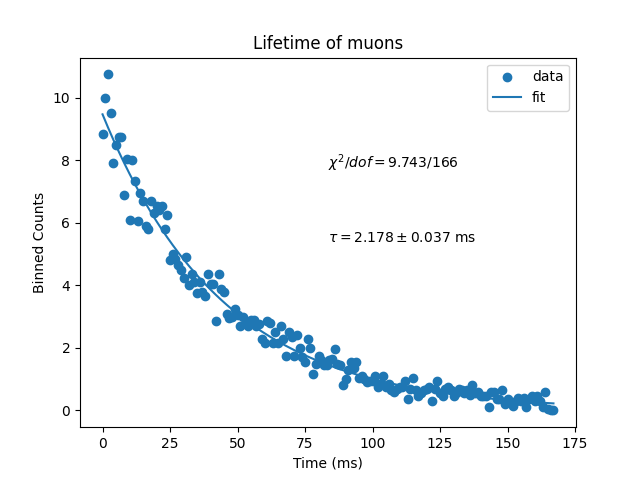
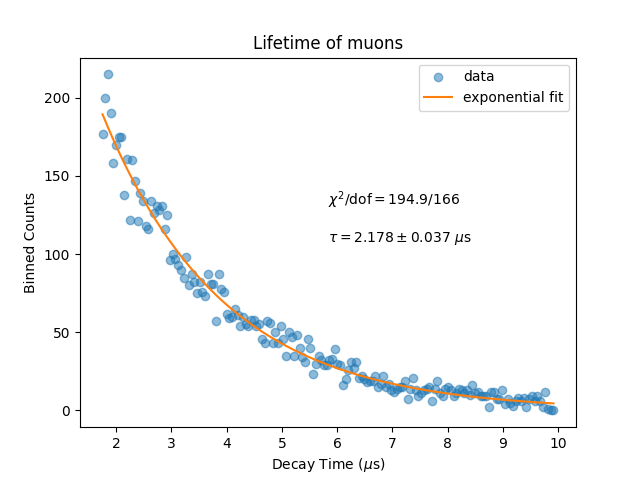
fix lifetime analysis

diff --git a/Exp1-CosmicRayMuons/lifetime_analysis.py b/Exp1-CosmicRayMuons/lifetime_analysis.py
@@ -11,13 +11,13 @@ print("original num bins:", data.shape)
 
 # assert False
 
-data = remove_zeros_on_margin(data)
+data, num_leading_zeros = remove_zeros_on_margin(data)
 print("num bins after removing dead zone with zeros:", data.shape)
 
 # bin the data
 BIN_SIZE = 20
-TIME_PER_BIN = BIN_SIZE * 10 / 4096 # in ms
-data = np.mean(data[:len(data)//BIN_SIZE * BIN_SIZE].reshape(-1, BIN_SIZE), axis=1)
+TIME_PER_BIN = BIN_SIZE * 10 / 4096 # in mus
+data = 20*np.mean(data[:len(data)//BIN_SIZE * BIN_SIZE].reshape(-1, BIN_SIZE), axis=1)
 print("num bins after binning:", data.shape)
 
 
@@ -32,7 +32,7 @@ def pure_exponential_decay(x, A, tau):
     return A * np.exp(-x / tau)
 
 def fit_exponential_decay(x, y):
-    popt, pcov = curve_fit(exponential_decay, x, y, p0=[max(y), 100, min(y)])
+    popt, pcov = curve_fit(exponential_decay, x, y, p0=[max(y), 100, 0])
     return popt, pcov
 
 def fit_pure_exponential_decay(x, y):
@@ -48,6 +48,7 @@ if USE_BACKGROUND:
     popt, pcov = fit_exponential_decay(x, y)
     # compute the chi-squared
     y_pred = exponential_decay(x, *popt)
+    print((y - y_pred)**2 / y_pred)
     chi_squared = np.sum((y - y_pred)**2 / y_pred)
     dof = len(y) - len(popt)
 else:
@@ -62,16 +63,25 @@ print("popt",popt)
 tau = popt[1] * TIME_PER_BIN
 tau_err = np.sqrt(np.diag(pcov))[1] * TIME_PER_BIN
 
-print(f'Lifetime: {tau:.3f} +/- {tau_err:.3f} ms')
+x_times = x * TIME_PER_BIN
 
-plt.scatter(x, y, label='data')
-plt.plot(x, y_pred, label='fit')
+SHIFT_TIMES = True
+
+if SHIFT_TIMES:
+    x_times = x_times + num_leading_zeros // 20 * TIME_PER_BIN
+
+print(f'Lifetime: {tau:.3f} +/- {tau_err:.3f} $\\mu$s')
+
+# plt.scatter(x, y, label='data', alpha=0.5)
+plt.scatter(x_times, y, label='data', alpha=0.5)
+# plt.plot(x, y_pred, label='fit', color='orange')
+plt.plot(x_times, y_pred, label='exponential fit', color='#ff7f0e')
 plt.title('Lifetime of muons')
-plt.xlabel('Time (ms)')
+plt.xlabel('Decay Time ($\\mu$s)')
 plt.ylabel('Binned Counts')
 
-plt.text(0.5, 0.7, f'$\\chi^2 / dof = {chi_squared:.3f} / {dof}$', transform=plt.gca().transAxes)
-plt.text(0.5, 0.5, f'$\\tau = {tau:.3f} \pm {tau_err:.3f}$ ms', transform=plt.gca().transAxes)
+plt.text(0.5, 0.6, f'$\\chi^2 / \\text{{dof}} = {chi_squared:.1f} / {dof}$', transform=plt.gca().transAxes)
+plt.text(0.5, 0.5, f'$\\tau = {tau:.3f} \pm {tau_err:.3f}$ $\\mu$s', transform=plt.gca().transAxes)
 
 plt.legend()
 plt.savefig('./images/lifetime_weekend.png')

diff --git a/Exp1-CosmicRayMuons/load_data.py b/Exp1-CosmicRayMuons/load_data.py
@@ -28,7 +28,7 @@ def remove_zeros_on_margin(counts):
         if counts[i] != 0:
             break
     counts = counts[i:]
-    return counts
+    return counts, i
 
 if __name__ == '__main__':
     filename = '200cmlongrun'
